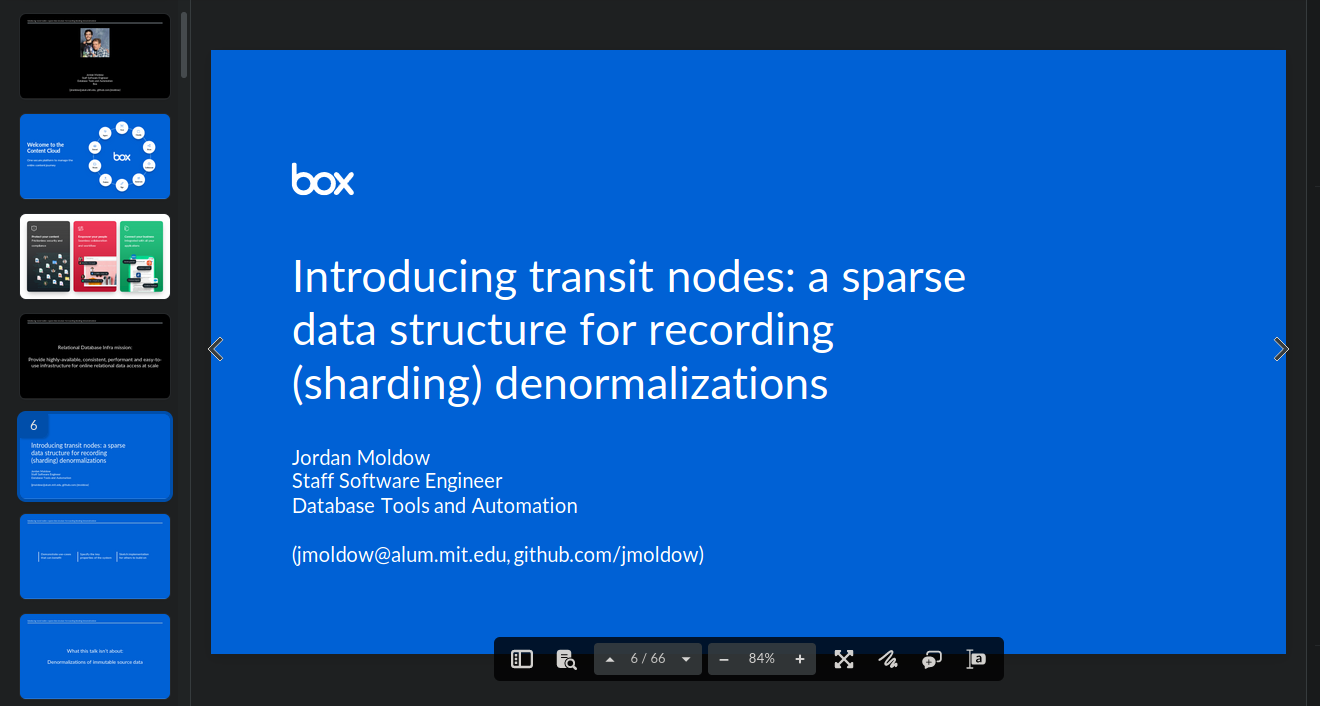
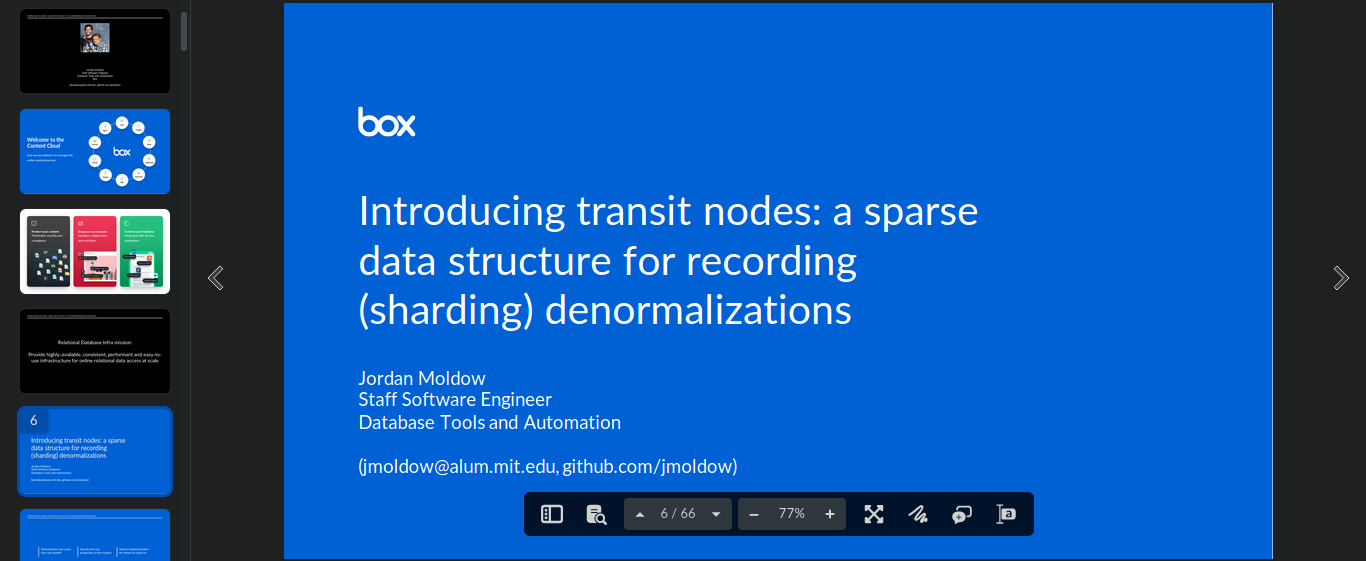
Fix aspect ratio

diff --git a/README.md b/README.md
@@ -93,9 +93,9 @@ The transit node concept was carefully designed with a number of invariants, whi
 We will briefly cover the context of sharding at Box, to provide the motivation for the transit node concept. The rest of the talk will present the semantics, invariants, and behaviors of transit nodes, and some results from our deployment. My hope is that the concept can be more broadly useful beyond what we originally designed it for.
 
 <a href="https://www.youtube.com/watch?v=h9HwP3jJYuY" title="Introducing Transit Nodes - A Sparse Data Structure for Recording Sharding Denormalizations - YouTube - Recording">
-<img src="assets/images/introducing-transit-nodes---a-sparse-data-structure-for-recording-sharding-denormalizations-youtube-recording.png" alt="Introducing Transit Nodes - A Sparse Data Structure for Recording Sharding Denormalizations - YouTube - Recording" width="1276" height="718" style="width:49%; height:49%; aspect-ratio:16/9;">
+<img src="assets/images/introducing-transit-nodes---a-sparse-data-structure-for-recording-sharding-denormalizations-youtube-recording.png" alt="Introducing Transit Nodes - A Sparse Data Structure for Recording Sharding Denormalizations - YouTube - Recording" width="1276" height="718" style="max-width:49%; max-height:49%; aspect-ratio:16/9;">
 </a> <a href="https://app.box.com/s/s5vegq0b7yh6va8op85ftqmt12lqdklt" title="Introducing Transit Nodes - A Sparse Data Structure for Recording Sharding Denormalizations - Slides">
-<img src="assets/images/introducing-transit-nodes---a-sparse-data-structure-for-recording-sharding-denormalizations-box-slides.png" alt="Introducing Transit Nodes - A Sparse Data Structure for Recording Sharding Denormalizations - Slides" width="1320" height="706" style="width:49%; aspect-ratio:1320/706 auto;">
+<img src="assets/images/introducing-transit-nodes---a-sparse-data-structure-for-recording-sharding-denormalizations-box-slides.png" alt="Introducing Transit Nodes - A Sparse Data Structure for Recording Sharding Denormalizations - Slides" width="1366" height="561" style="max-width:49%; max-height:49%; aspect-ratio:1366/561 auto;">
 </a>
 
 ### Turning Pain Into Gain - A Puppet Unit Testing Story
